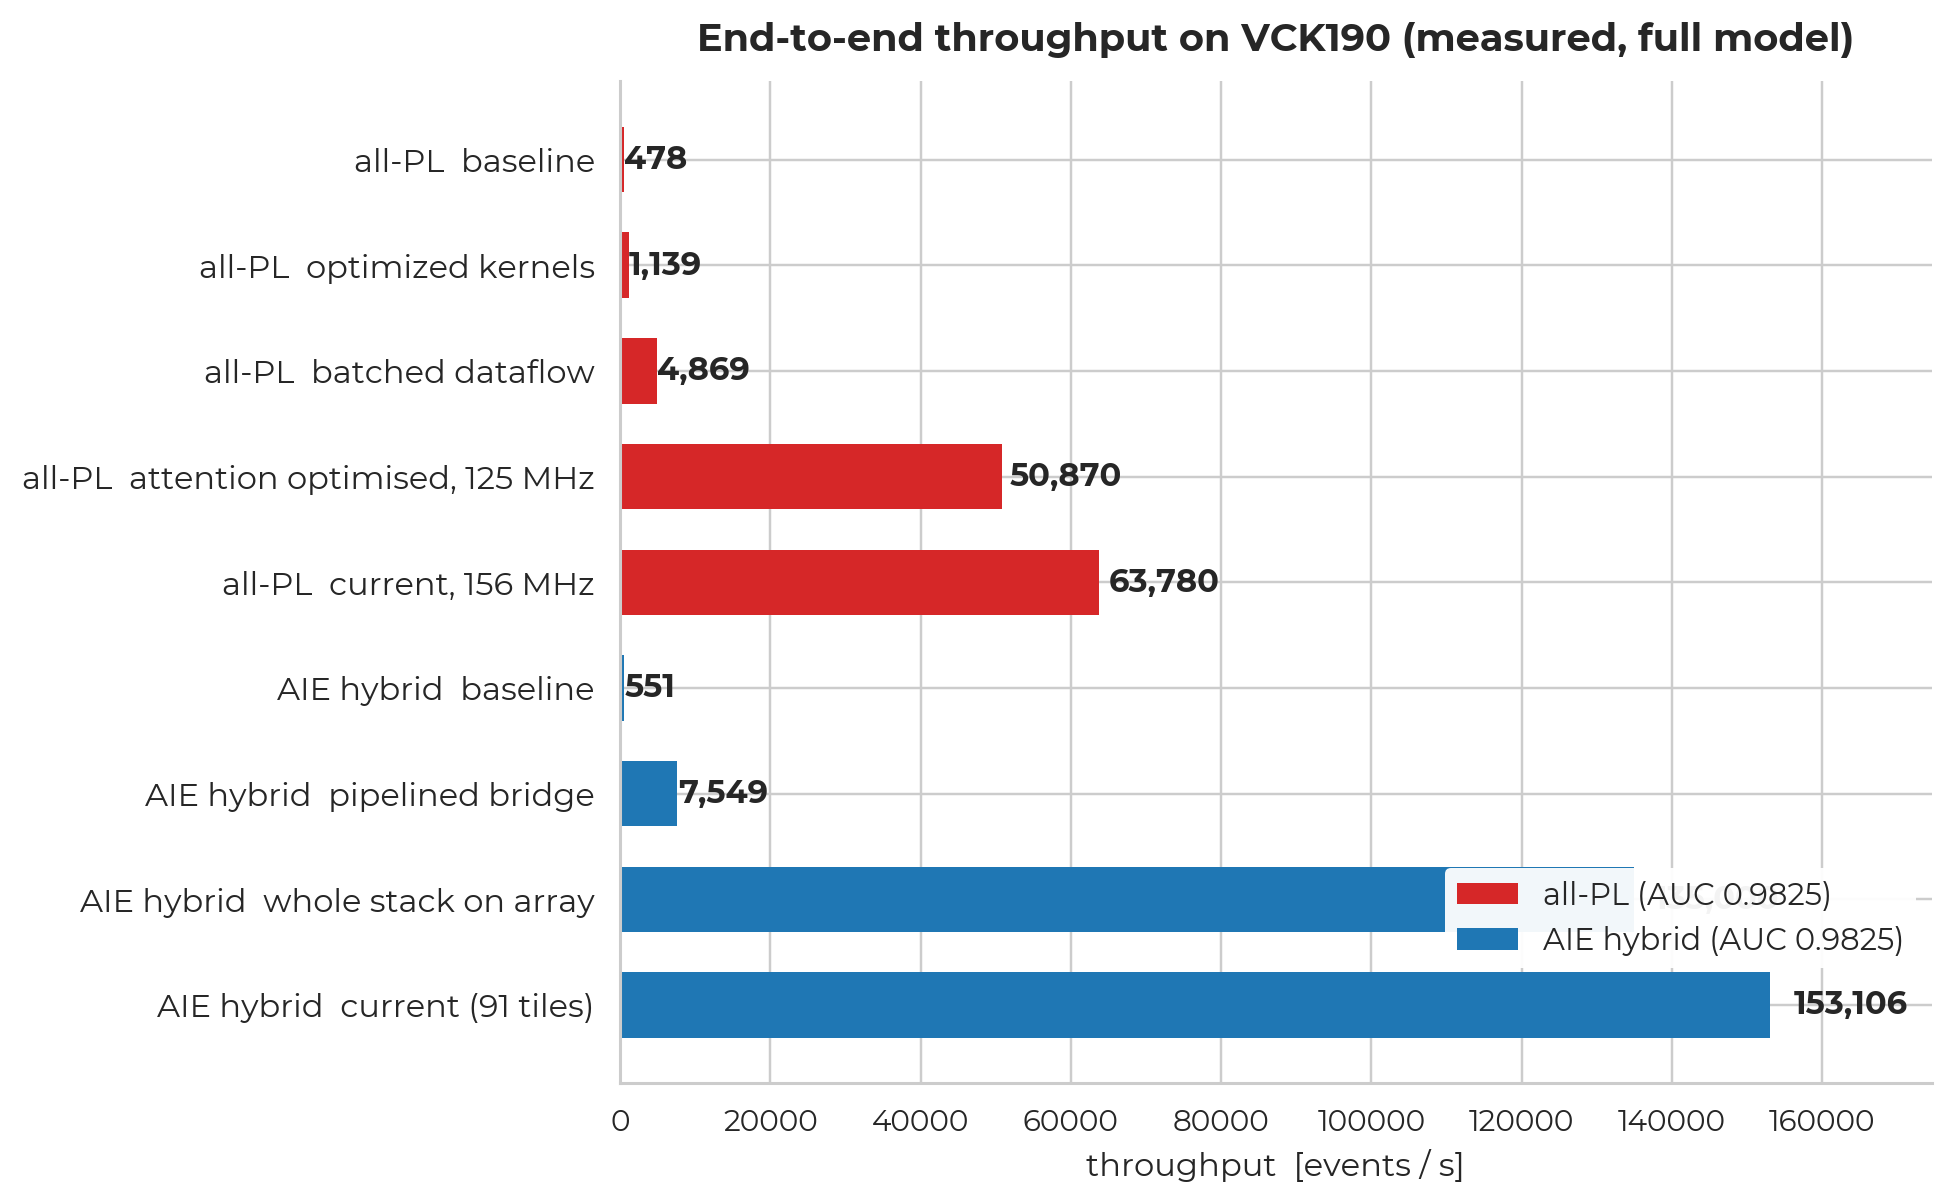
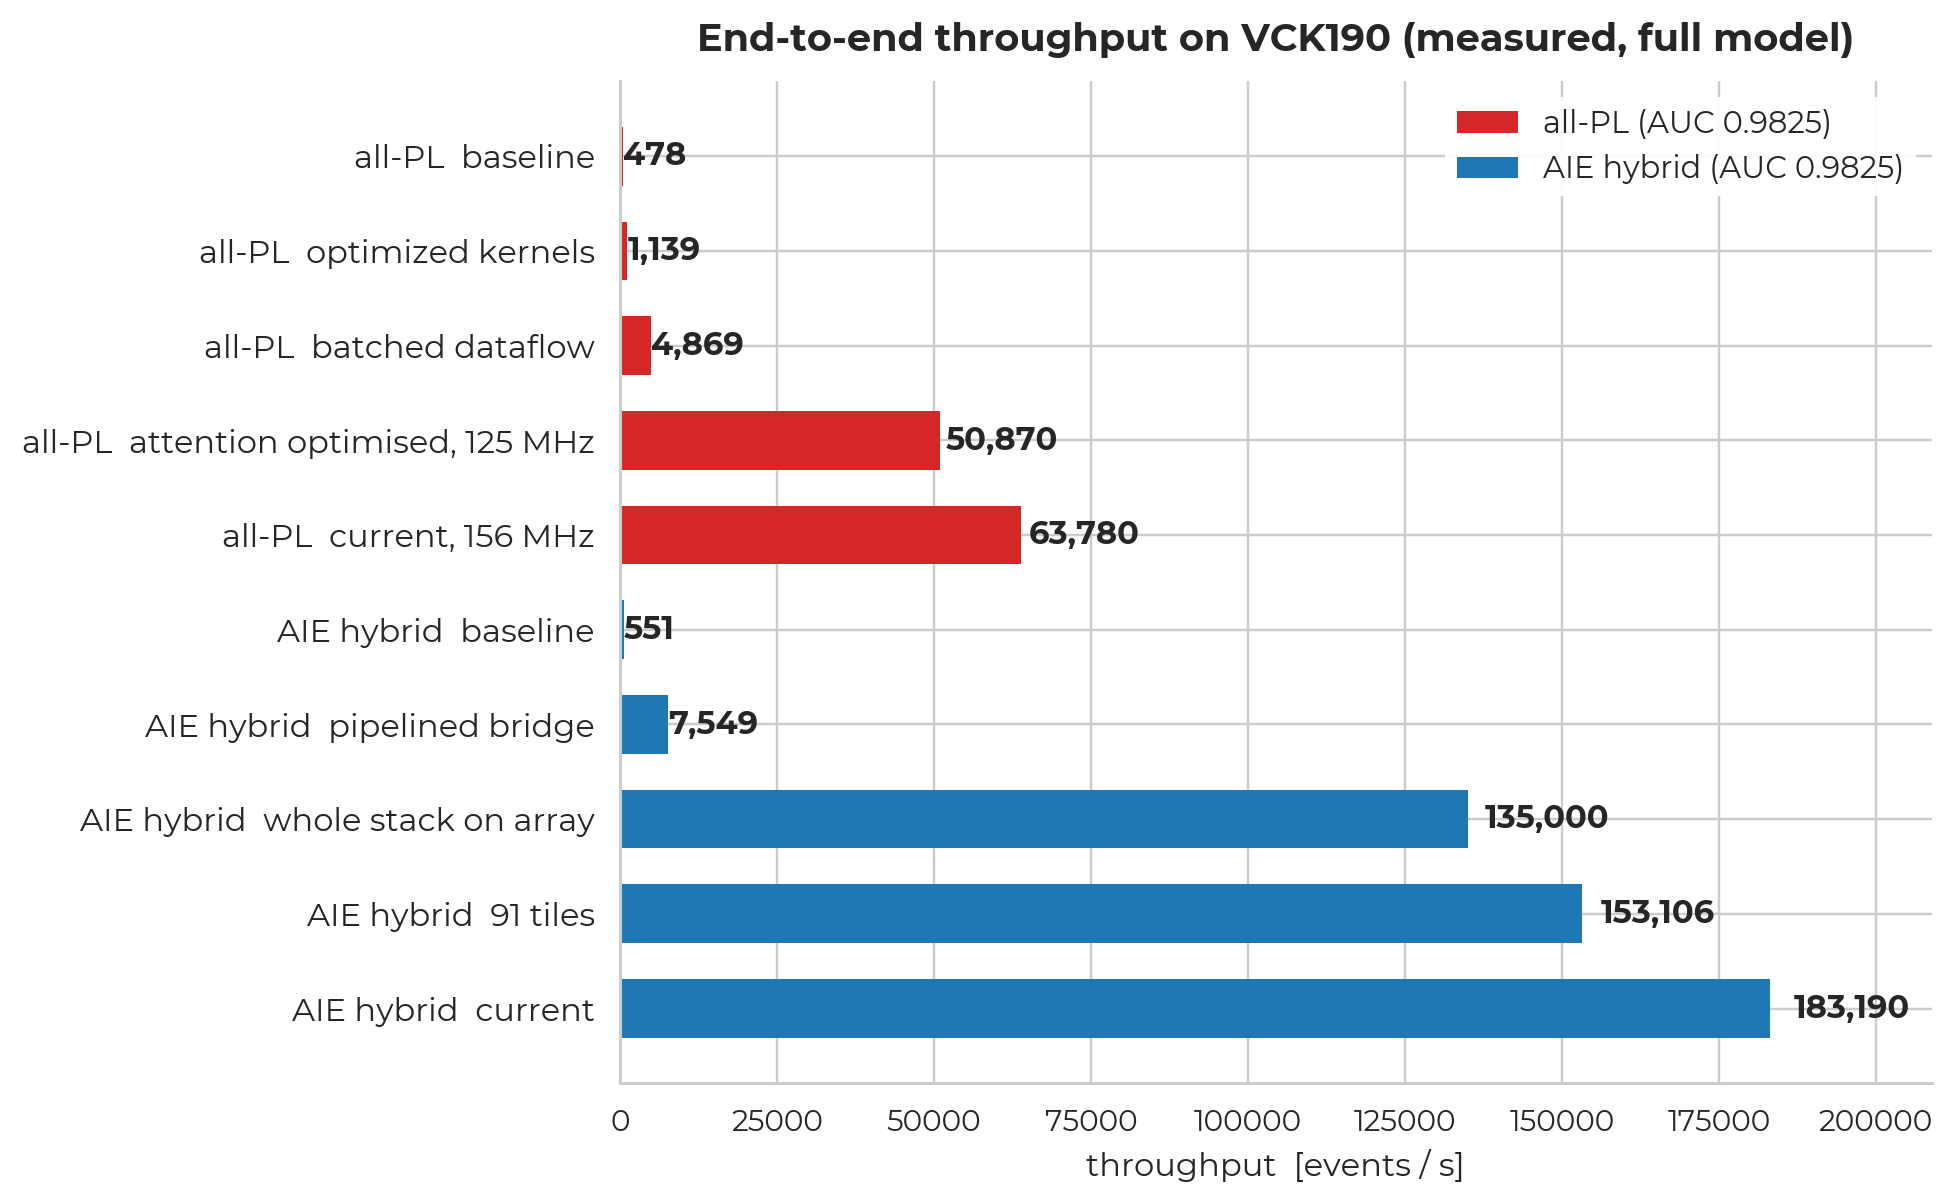
fig: end-to-end throughput adds the current hybrid (183,190 ev/s), legend moved clear of the bars

diff --git a/scripts/make_throughput_charts.py b/scripts/make_throughput_charts.py
@@ -48,7 +48,8 @@ def fig_endtoend():
         ("AIE hybrid  baseline",                551,  AIE_C),
         ("AIE hybrid  pipelined bridge",       7549,  AIE_C),
         ("AIE hybrid  whole stack on array",  135000, AIE_C),
-        ("AIE hybrid  current (91 tiles)",    153106, AIE_C),
+        ("AIE hybrid  91 tiles",              153106, AIE_C),
+        ("AIE hybrid  current",               183190, AIE_C),
     ]
     labels = [r[0] for r in rows]
     vals = np.array([r[1] for r in rows], float)
@@ -67,8 +68,8 @@ def fig_endtoend():
                  fontsize=12.5, pad=10)
     handles = [mpl.patches.Patch(color=PL_C, label="all-PL (AUC 0.9825)"),
                mpl.patches.Patch(color=AIE_C, label="AIE hybrid (AUC 0.9825)")]
-    ax.legend(handles=handles, loc="lower right", fontsize=10,
-              bbox_to_anchor=(1.0, 0.10), framealpha=0.95)
+    ax.legend(handles=handles, loc="upper right", fontsize=10,
+              framealpha=0.95)
     save(fig, "throughput_endtoend")
 
 
